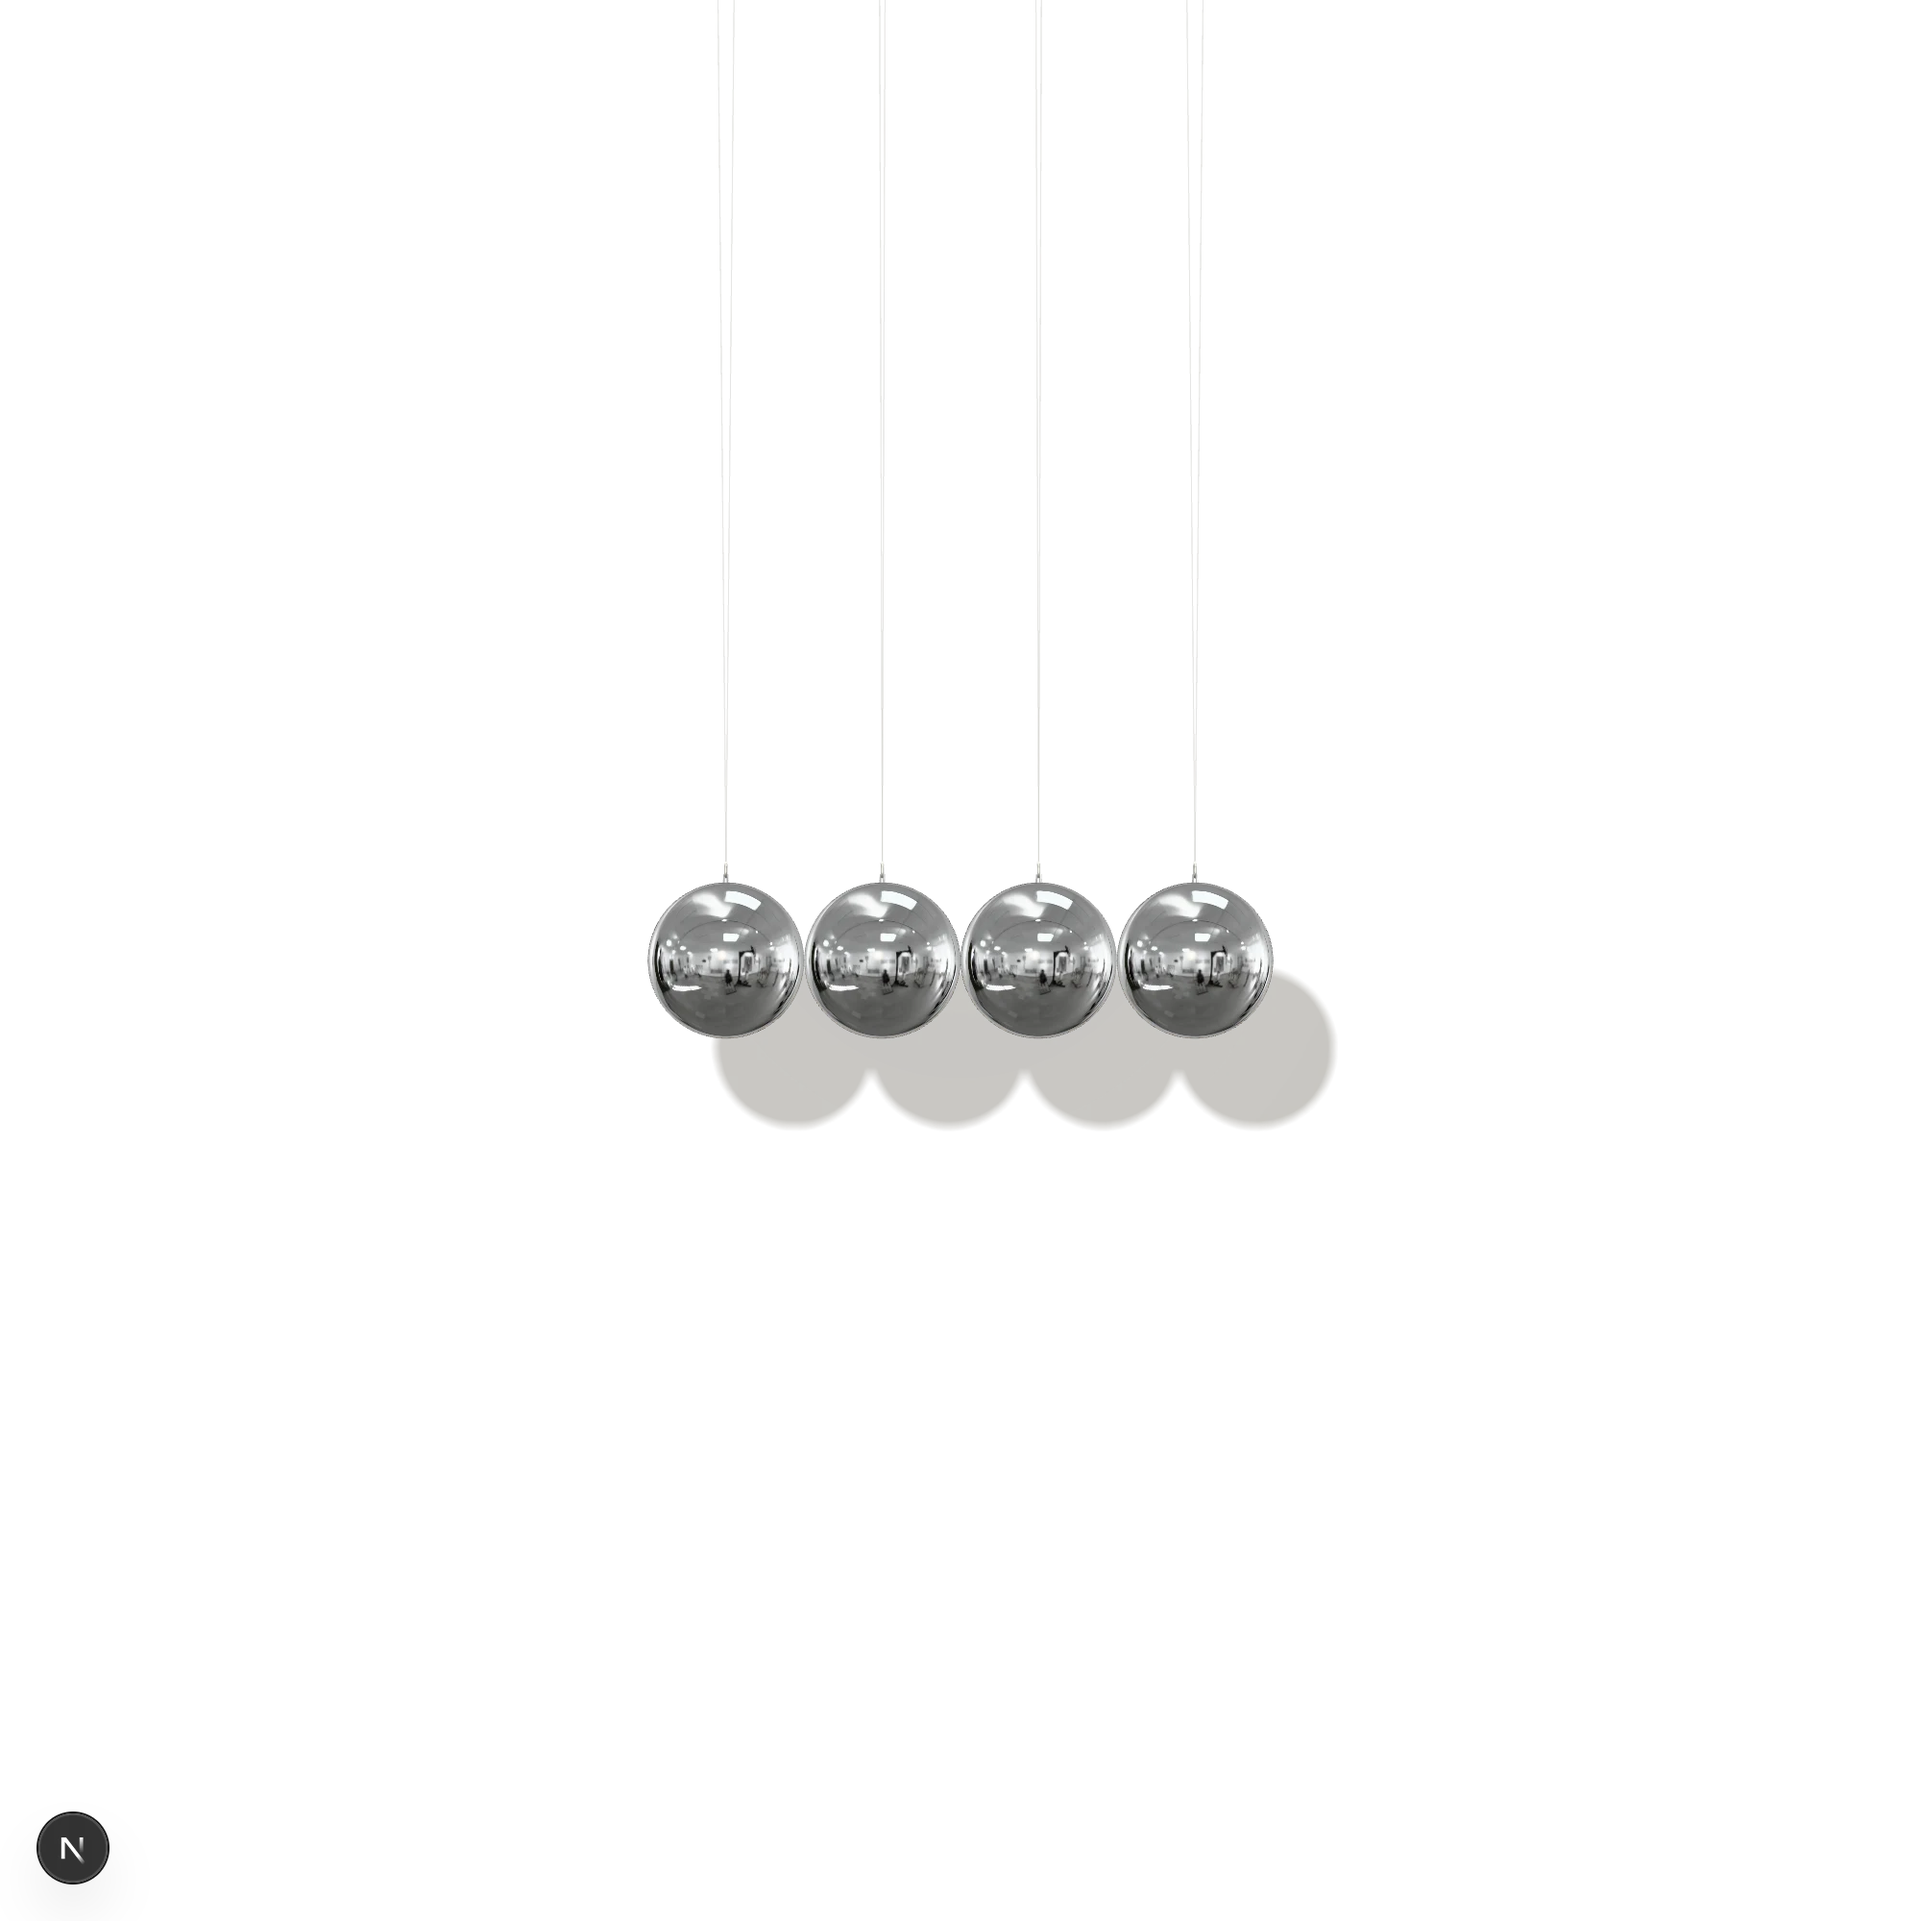
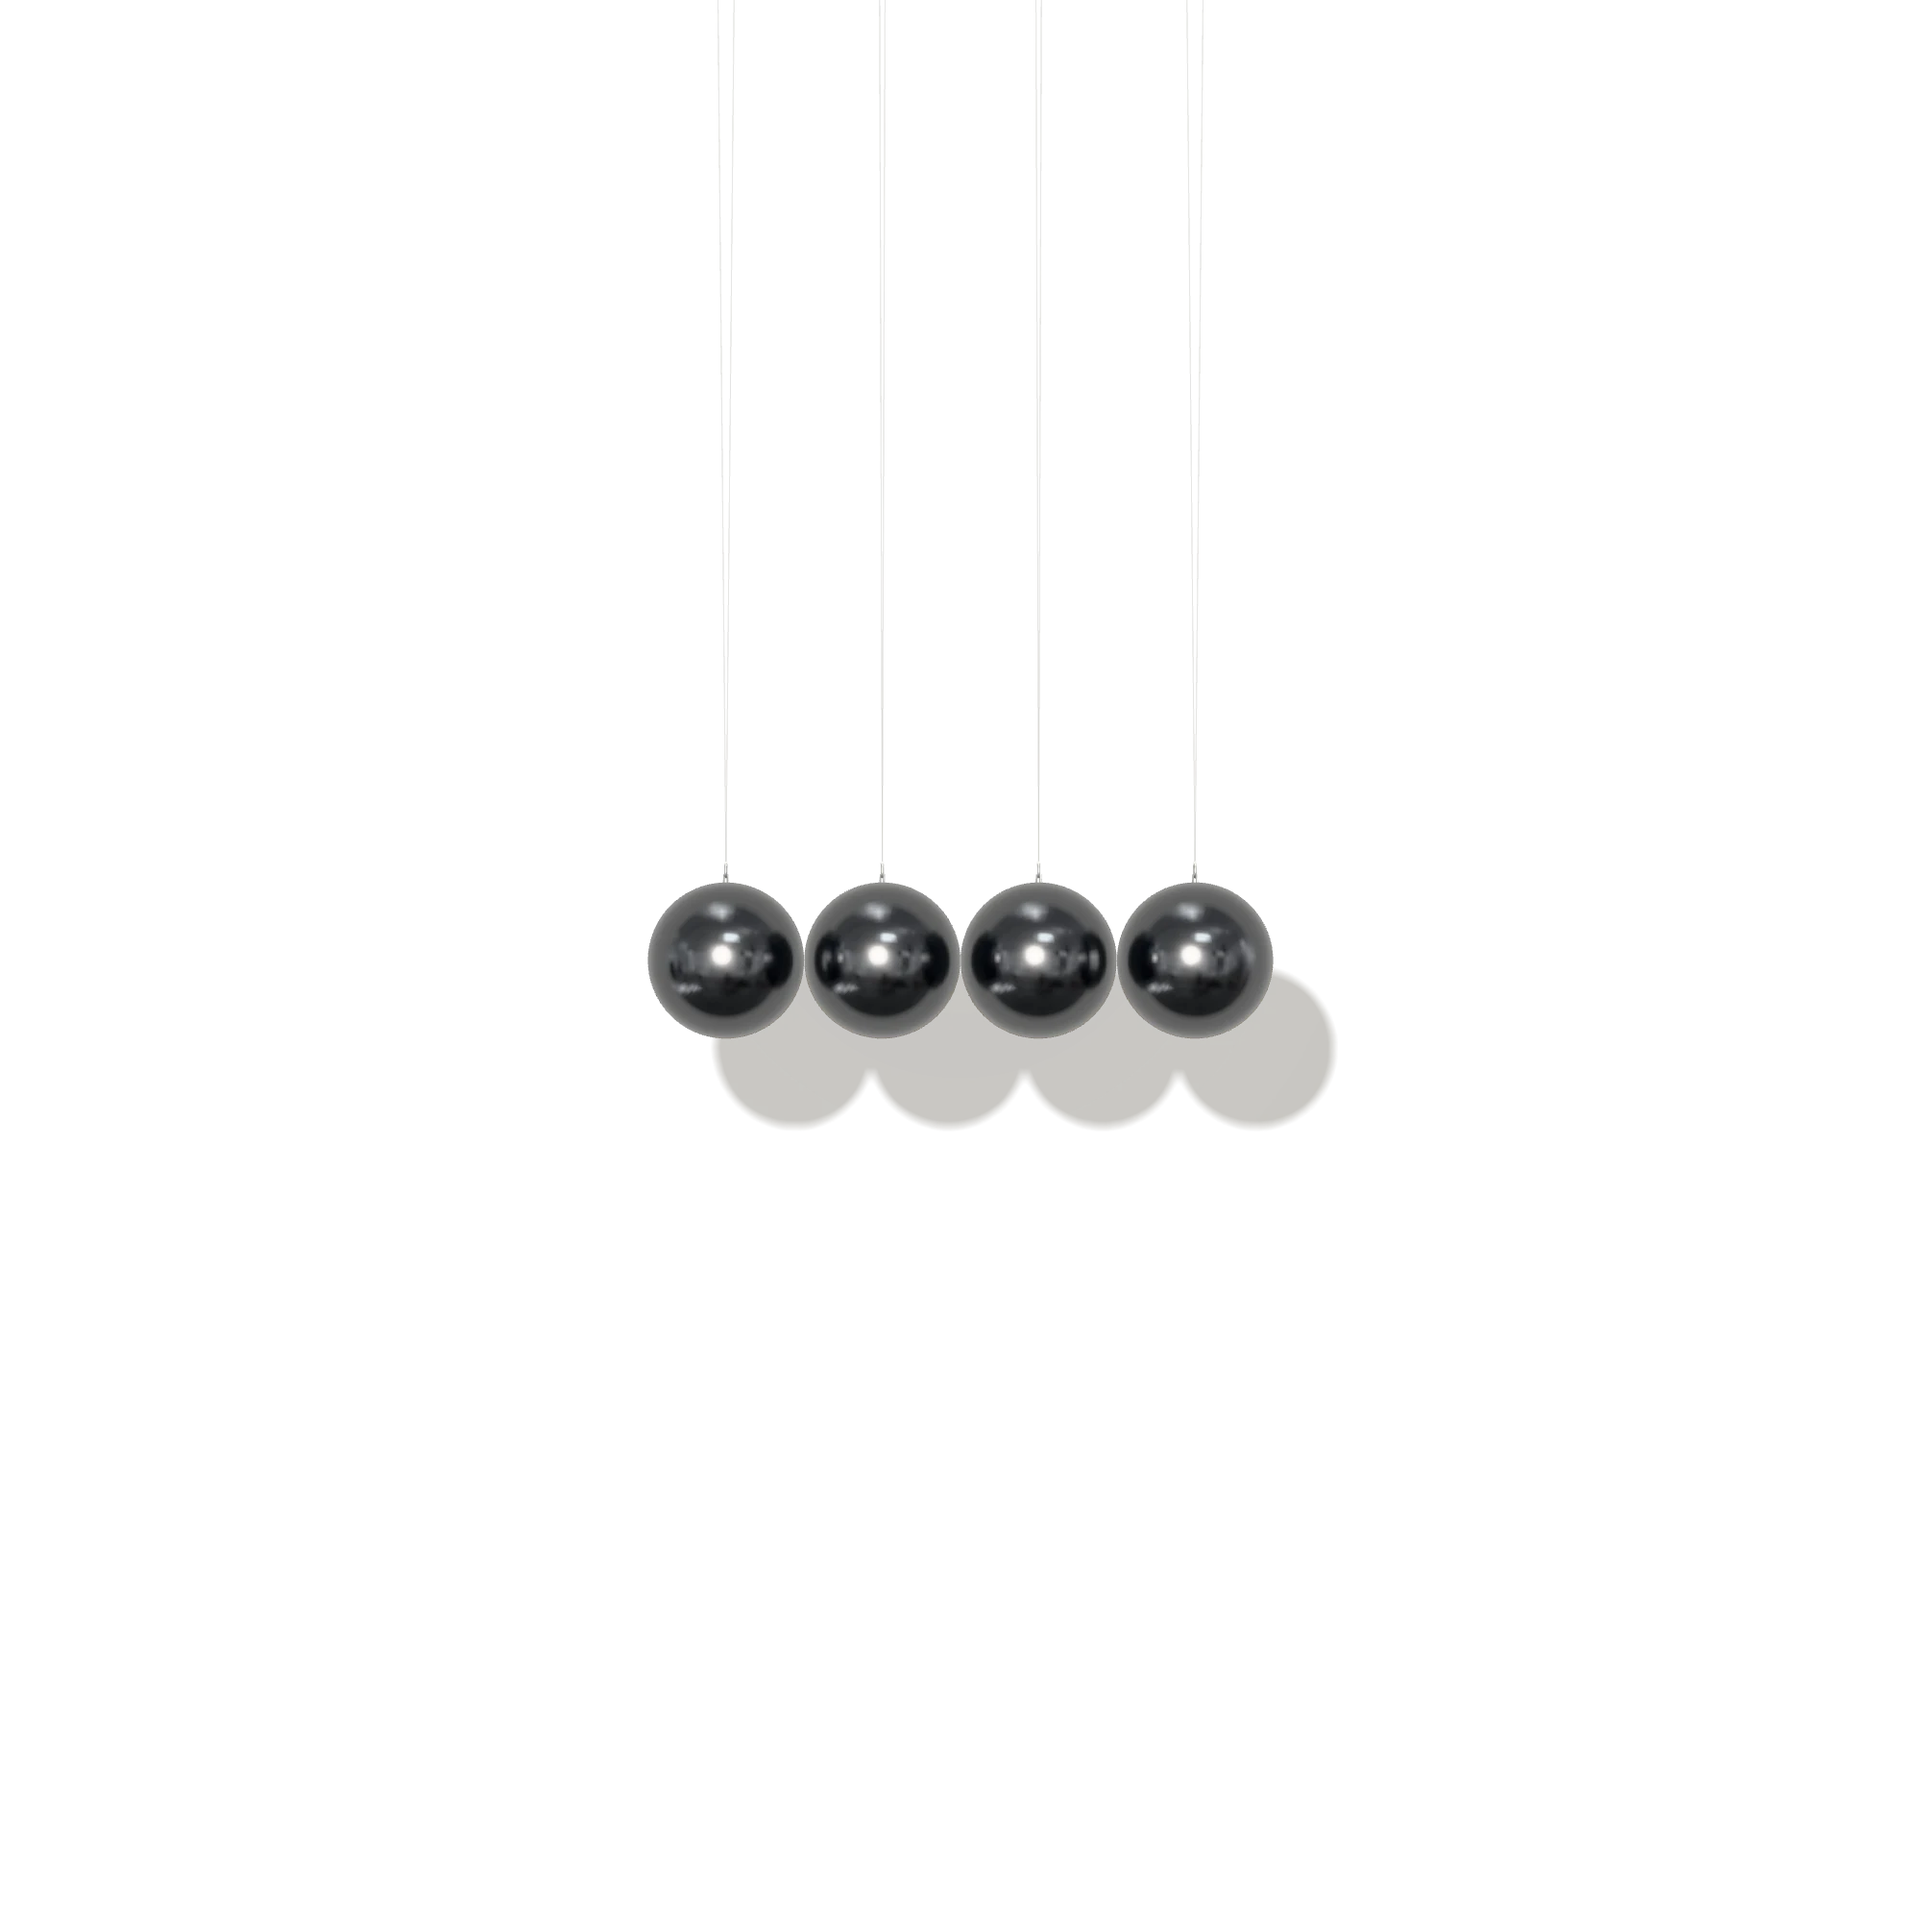
feat(object): dark metal balls everywhere, slow motion on, quieter whoosh, sound always on
Fallback stills and favicon re-rendered in dark metal; the sound toggle leaves the hero.

Changed region(s): [[0.341, 0.465, 0.682, 0.527], [0.0, 0.93, 0.062, 0.992]]

diff --git a/src/audio/clack.ts b/src/audio/clack.ts
@@ -13,7 +13,8 @@ const HERTZ = 1.2;
 const MASTER = 0.55;
 /** Slow motion pitches the clacks down with time, but never so far that they stop sounding like steel. */
 const MIN_RATE = 0.45;
-const WHOOSH_GAIN = 0.8;
+// Lucas: a third quieter than the first cut (0.8).
+const WHOOSH_GAIN = 0.53;
 
 let ctx: AudioContext | null = null;
 let buffer: AudioBuffer | null = null;
@@ -73,17 +74,17 @@ export function chainClacks(events: CollisionEvent[], last: number) {
 }
 
 /** Play one frame's impacts as clacks; `timeScale` < 1 is slow motion. */
-export function playImpacts(events: CollisionEvent[], enabled: boolean, timeScale = 1): void {
+export function playImpacts(events: CollisionEvent[], timeScale = 1): void {
   if (!events.length) return;
   const result = chainClacks(events, lastClack);
   lastClack = result.last;
-  if (!ctx || !buffer || !master || !enabled || ctx.state !== "running") return;
+  if (!ctx || !buffer || !master || ctx.state !== "running") return;
   for (const c of result.clacks) clack(c.speed, c.x, Math.max(MIN_RATE, timeScale));
 }
 
 /** The slow-motion whoosh: "down" as time slows, "up" (the same sound reversed) as it returns. */
-export function playWhoosh(kind: "down" | "up", enabled: boolean): void {
-  if (!ctx || !whooshBuffer || !master || !enabled || ctx.state !== "running") return;
+export function playWhoosh(kind: "down" | "up"): void {
+  if (!ctx || !whooshBuffer || !master || ctx.state !== "running") return;
   const clip = whooshes[kind];
   const source = ctx.createBufferSource();
   source.buffer = whooshBuffer;

diff --git a/src/scene/slowmo.ts b/src/scene/slowmo.ts
@@ -1,6 +1,5 @@
 import { playWhoosh } from "@/audio/clack";
 import type { Cradle } from "@/physics/cradle";
-import { useUi } from "@/state/ui";
 
 /**
  * Slow motion on hover (PLAN 12.7). A time scale multiplies the real frame time fed to the world
@@ -15,8 +14,8 @@ const EASE_OUT = 0.4;
 const TRIGGER_SPEED = 0.05;
 
 export const slowmo = {
-  /** Behind a flag: `/lab` and `?slowmo=1` only, until Lucas approves it. */
-  enabled: false,
+  /** Approved by Lucas for production (2026-11-03); tests can switch it off. */
+  enabled: true,
   /** Ball under a mouse pointer (never touch or keyboard focus). */
   hover: null as number | null,
   slowing: false,
@@ -42,7 +41,7 @@ export function advanceClock(realDt: number, c: Cradle): number {
   const want = wanted(c);
   if (want !== slowmo.slowing) {
     slowmo.slowing = want;
-    playWhoosh(want ? "down" : "up", useUi.getState().sound);
+    playWhoosh(want ? "down" : "up");
   }
   slowmo.ramp = Math.min(1, Math.max(0, slowmo.ramp + realDt / (want ? EASE_IN : -EASE_OUT)));
   // Smoothstep in log time: the slowdown feels even, like a film ramp rather than a brake.
@@ -55,7 +54,7 @@ export function advanceClock(realDt: number, c: Cradle): number {
 
 /** Back to real time at once (a press on a ball, before any grab or choreography). */
 export function restoreTime(): void {
-  if (slowmo.slowing) playWhoosh("up", useUi.getState().sound);
+  if (slowmo.slowing) playWhoosh("up");
   slowmo.slowing = false;
   slowmo.ramp = 0;
   slowmo.scale = 1;

diff --git a/src/state/ui.ts b/src/state/ui.ts
@@ -11,26 +11,19 @@ interface UiState {
   hovered: number | null;
   /** Ball whose story is open (PLAN 1.3). */
   selected: number | null;
-  sound: boolean;
   setMaterial: (material: Material) => void;
   setReveal: (reveal: Reveal) => void;
   setHovered: (hovered: number | null) => void;
   setSelected: (selected: number | null) => void;
-  setSound: (sound: boolean) => void;
 }
 
 export const useUi = create<UiState>((set) => ({
-  material: "chrome",
+  material: "darkMetal",
   reveal: "b",
   hovered: null,
   selected: null,
-  sound: true,
   setMaterial: (material) => set({ material }),
   setReveal: (reveal) => set({ reveal }),
   setHovered: (hovered) => set({ hovered }),
   setSelected: (selected) => set({ selected }),
-  setSound: (sound) => {
-    localStorage.setItem("sound", sound ? "on" : "off");
-    set({ sound });
-  },
 }));

diff --git a/src/components/Hero.tsx b/src/components/Hero.tsx
@@ -1,6 +1,5 @@
 import { HeroCorners, HeroName } from "./HeroChrome";
 import { HeroStage } from "./HeroStage";
-import { SoundToggle } from "./SoundToggle";
 import { StoryController } from "./StoryController";
 
 /** The hero: corner lines, the giant name, the cradle. Lives in the (hero) layout, never remounts. */
@@ -12,7 +11,6 @@ export function Hero() {
         <HeroStage />
       </div>
       <HeroCorners />
-      <SoundToggle className="absolute bottom-[20vw] right-[var(--gutter)]" />
       <StoryController />
     </section>
   );

diff --git a/src/scene/Interaction.tsx b/src/scene/Interaction.tsx
@@ -27,8 +27,6 @@ export function Interaction() {
     let dragging: number | null = null;
     /** The ball last pressed: slow motion waits until the pointer has left it. */
     let pressedOn: number | null = null;
-    slowmo.enabled =
-      location.pathname.startsWith("/lab") || new URLSearchParams(location.search).get("slowmo") === "1";
     // A press that barely moves and ends quickly is a tap, not a drag.
     const press = { x: 0, y: 0, time: 0, ball: null as number | null };
     const isTap = (e: PointerEvent) =>

diff --git a/src/scene/Cradle.tsx b/src/scene/Cradle.tsx
@@ -136,7 +136,7 @@ export function CradleModel() {
       kick.x = e.speed * STRING_KICK;
       for (const ball of [e.a, e.b]) for (const side of [0, 1] as const) ropeOf(ball, side).kick(kick);
     }
-    playImpacts(frame.events, useUi.getState().sound, slowmo.scale);
+    playImpacts(frame.events, slowmo.scale);
 
     ropes.forEach((rope, k) => {
       const ball = k >> 1;

diff --git a/next.config.ts b/next.config.ts
@@ -2,6 +2,8 @@ import type { NextConfig } from "next";
 
 const nextConfig: NextConfig = {
   reactStrictMode: true,
+  // The lab renders the fallback stills from the dev server; the badge must not end up in them.
+  devIndicators: false,
   turbopack: { root: import.meta.dirname },
   images: { formats: ["image/avif", "image/webp"] },
 };
